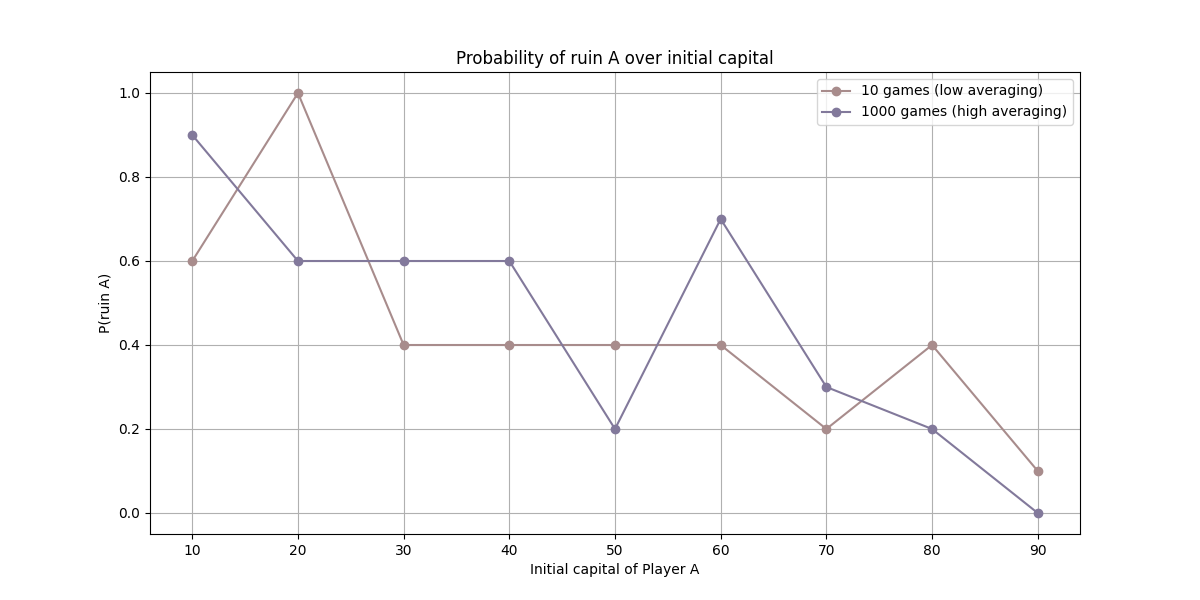
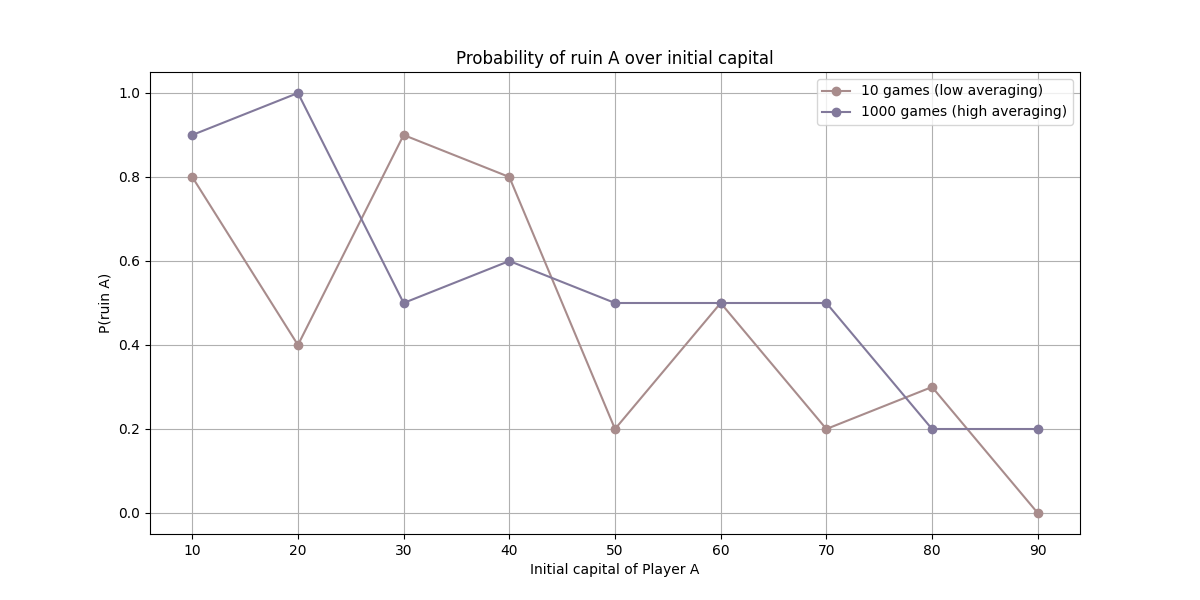
Restructure & ex-03

diff --git a/01-gamblers-ruin/simulation.py b/01-gamblers-ruin/simulation.py
@@ -1,0 +1,77 @@
+import numpy as np
+
+
+NUM_GAMES_SHORT = 10
+NUM_GAMES_LONG = 1000
+
+
+def simulate_ruin(a_initial: int, b_initial: int, p: float) -> tuple:
+
+    '''
+    Simulates the ruin process between two players with initial capital values.
+
+    Parameters:
+        a_initial (int): Initial capital of player A.
+        b_initial (int): Initial capital of player B.
+        p (float): Probability that player A wins $1 from player B.
+
+    Returns:
+        tuple:
+            - bool: True if player A goes bankrupt (capital reaches 0), otherwise False.
+            - int: Total number of rounds played before one player goes bankrupt.
+
+    '''
+
+    a, b = a_initial, b_initial
+    count = 0
+
+    while a > 0 and b > 0:
+
+        count += 1
+        if np.random.rand() < p:
+            a += 1
+            b -= 1
+        else:
+            a -= 1
+            b += 1
+    
+    return not a, count
+
+def estimate_ruin_probability(num_games: int, a_initial: int, b_initial: int, p: float) -> float:
+
+    '''
+    Estimates the probability of player A's ruin over a specified number of games.
+
+    Parameters:
+        num_games (int): Number of games to simulate for averaging ruin probability.
+        a_initial (int): Initial capital of player A.
+        b_initial (int): Initial capital of player B.
+        p (float): Probability that player A wins $1 from player B.
+
+    Returns:
+        float: Estimated probability of player A's ruin based on simulation.
+    '''
+    
+    ruin_count = sum(simulate_ruin(a_initial, b_initial, p)[0] for _ in range(num_games))
+    return ruin_count / num_games
+
+def estimate_game_length(num_games: int, a_initial: int, b_initial: int, p: float) -> tuple:
+
+    '''
+    Estimates the average game length and its standard deviation over a specified number of games,
+    providing the game length for each simulation.
+
+    Parameters:
+        num_games (int): Number of games to simulate for estimating game length statistics.
+        a_initial (int): Initial capital of player A.
+        b_initial (int): Initial capital of player B.
+        p (float): Probability that player A wins $1 from player B in a round.
+
+    Returns:
+        tuple:
+            - float: Average number of rounds played before one player goes bankrupt.
+            - float: Standard deviation of game lengths over the simulations.
+    '''
+
+    game_lengths = [simulate_ruin(a_initial, b_initial, p)[1] for _ in range(num_games)]
+    return np.mean(game_lengths), np.std(game_lengths)

diff --git a/01-gamblers-ruin/ex-03.py b/01-gamblers-ruin/ex-03.py
@@ -1,0 +1,40 @@
+import numpy as np
+import matplotlib.pyplot as plt
+from simulation import *
+
+
+if __name__ == '__main__':
+
+    a_initial = 50
+    b_initial = 50
+    p_values = [0.2, 0.5, 0.8]
+
+    # run the short simulation (averaging over 10 games)
+    num_rounds_mean_short = []
+    num_rounds_stdev_short = []
+    
+    for p in p_values:
+        mean_length, stdev_length = estimate_game_length(NUM_GAMES_SHORT, a_initial, b_initial, p)
+        num_rounds_mean_short.append(mean_length)
+        num_rounds_stdev_short.append(stdev_length)
+
+    # run the long simulation (averaging over 1000 games)
+    num_rounds_mean_long = []
+    num_rounds_stdev_long = []
+
+    for p in p_values:
+        mean_length, stdev_length = estimate_game_length(NUM_GAMES_LONG, a_initial, b_initial, p)
+        num_rounds_mean_long.append(mean_length)
+        num_rounds_stdev_long.append(stdev_length)
+
+    # plot the probabilites
+    plt.errorbar(p_values, num_rounds_mean_short, yerr=num_rounds_stdev_short, label=f'{NUM_GAMES_SHORT} games (low averaging)', marker='o', color='#A88C8C', capsize=5)
+    plt.errorbar(p_values, num_rounds_mean_long, yerr=num_rounds_stdev_long, label=f'{NUM_GAMES_LONG} games (high averaging)', marker='o', color='#82799B', capsize=5)
+
+    plt.xlabel('Probability value (p)')
+    plt.ylabel('Game length (number of rounds)')
+    plt.legend()
+    plt.grid()
+    plt.title('Average number of rounds over p probability')
+
+    plt.savefig('./images/ex-03')

diff --git a/01-gamblers-ruin/ex-01.py b/01-gamblers-ruin/ex-01.py
@@ -1,0 +1,31 @@
+import numpy as np
+import matplotlib.pyplot as plt
+from simulation import *
+
+
+if __name__ == '__main__':
+
+    # set initial capitals and define probabilities
+    a_initial = 50
+    b_initial = 50
+    p_values = np.arange(0.0, 1.0, 0.1)
+
+    # run the short simulation (averaging over 10 games)
+    ruin_count_short = [estimate_ruin_probability(NUM_GAMES_SHORT, a_initial, b_initial, p) for p in p_values]
+
+    # run the long simulation (averaging over 1000 games)
+    ruin_count_long = [estimate_ruin_probability(NUM_GAMES_LONG, a_initial, b_initial, p) for p in p_values]
+
+    # plot the probabilites
+    plt.figure(figsize=(12, 6))
+
+    plt.plot(p_values, ruin_count_short, label=f'{NUM_GAMES_SHORT} games (low averaging)', marker='o', color='#A88C8C')
+    plt.plot(p_values, ruin_count_long, label=f'{NUM_GAMES_LONG} games (high averaging)', marker='o', color='#82799B')
+
+    plt.xlabel('Probability value (p)')
+    plt.ylabel('P(ruin A)')
+    plt.legend()
+    plt.grid()
+    plt.title('Probability of ruin A over p probability')
+    
+    plt.savefig('./images/ex-01')

diff --git a/01-gamblers-ruin/ex-02.py b/01-gamblers-ruin/ex-02.py
@@ -1,0 +1,29 @@
+import matplotlib.pyplot as plt
+from simulation import *
+
+
+if __name__ == '__main__':    
+
+    # set initial capitals and probability
+    a_initial = np.arange(10, 100, 10)
+    p = 0.5
+
+    # run the short simulation (averaging over 10 games)
+    ruin_count_short = [estimate_ruin_probability(NUM_GAMES_SHORT, a, 100 - a, p) for a in a_initial]
+
+    # run the long simulation (averaging over 1000 games)
+    ruin_count_long = [estimate_ruin_probability(NUM_GAMES_SHORT, a, 100 - a, p) for a in a_initial]
+
+    # plot the probabilites
+    plt.figure(figsize=(12, 6))
+
+    plt.plot(a_initial, ruin_count_short, label=f'{NUM_GAMES_SHORT} games (low averaging)', marker='o', color='#A88C8C')
+    plt.plot(a_initial, ruin_count_long, label=f'{NUM_GAMES_LONG} games (high averaging)', marker='o', color='#82799B')
+
+    plt.xlabel('Initial capital of Player A')
+    plt.ylabel('P(ruin A)')
+    plt.legend()
+    plt.grid()
+    plt.title('Probability of ruin A over initial capital')
+    
+    plt.savefig('./images/ex-02')

diff --git a/README.md b/README.md
@@ -15,7 +15,7 @@ Generate histograms and Cumulative Distribution Function for random variables ge
 Simulation of the Gambler's Ruin.
 
 ### Exercise 1
-Given initial capital for two players (const) and a **changing probability p** of passing $1 from Player A to Player B, estimate the probability of loosing the capital by Player A **depending on p probability**.<br>
+Given the initial capital for two players = 50 (const) and a **changing probability p** of passing $1 from Player A to Player B, estimate the probability of loosing the capital by Player A **depending on p probability**.<br>
 Probability was estimated over 10 and 1000 games.
 ![probability of ruin A over p](./01-gamblers-ruin/images/ex-01.png)
 
@@ -23,3 +23,8 @@ Probability was estimated over 10 and 1000 games.
 Given the probability p of passing $1 from Player A to Player B = 0.5 (const) and a **changing capital of Players A and B** (such that `a + b = 100`), estimate the probability of loosing the capital by Player A **depending on initial capital**.<br>
 Probability was estimated over 10 and 1000 games.
 ![probability of ruin A over initial capital](./01-gamblers-ruin/images/ex-02.png)
+
+
+### Exercise 3
+Given the initial capital for two players = 50 (const) and a **changing probability `p = [0.2, 0.5, 0.8]`** of passing $1 from Player A to Player B, estimate the average number of rounds and its standard deviation **depending on p probability**.<br>
+![estimated game length over p](./01-gamblers-ruin/images/ex-03.png)
